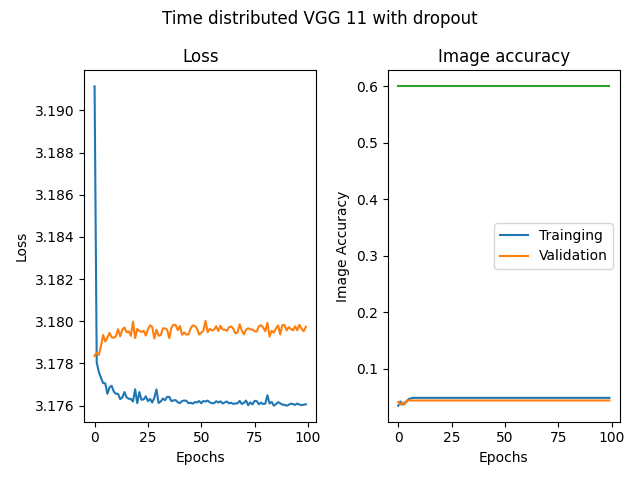
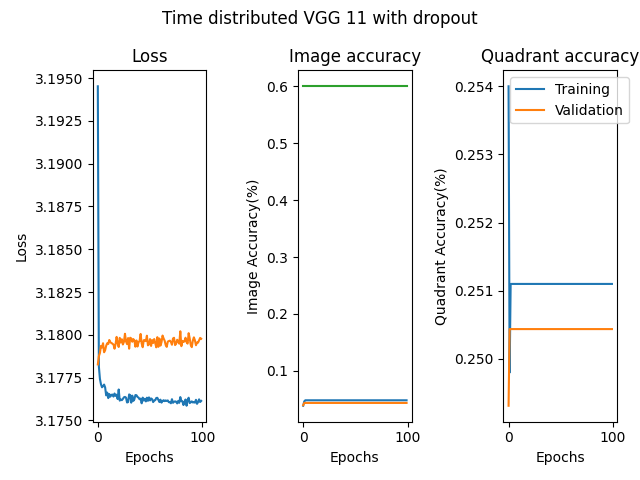
Fixed non-time distributed model

diff --git a/Exam/Task3/task3.py b/Exam/Task3/task3.py
@@ -26,20 +26,15 @@ def create_model(input_shape=(96,96,3),dropout=False,batch_norm = True, l2=False
     Creates a model after the vgg11 network.
 
     """ 
-
     model = keras.Sequential()
-    convlayers = [64,"pool",128,"pool",256,"batchnorm",256,"pool",512,"batchnorm",512,"pool",512,512,"pool"]
-    if batch_norm:
-        convlayers.append("batchnorm")
+    convlayers = [64,"pool",128,"pool",256,256,"pool",512,512,"pool",512,512,"pool"]
     dense_layers = [4096,4096]
 
-    model.add(layers.Input(shape=input_shape))
+    model.add(layers.InputLayer(input_shape=input_shape))
     #Convolutional layers
     for i,filters in enumerate(convlayers):
         if filters == "pool":
             model.add(layers.MaxPool2D(padding="same", name=f"Pooling_layer_{i}"))
-        elif filters == "batchnorm":
-            model.add(layers.BatchNormalization())
         else:
             model.add(layers.Conv2D(filters=filters,
                                     kernel_size=(3,3), 
@@ -48,6 +43,9 @@ def create_model(input_shape=(96,96,3),dropout=False,batch_norm = True, l2=False
                                     activation="relu",
                                     # input_shape = None if i > 0 else input_shape,
                                     name=f"Conv_layer_{i}"))
+            if batch_norm:
+                model.add(layers.BatchNormalization())
+
     model.add(layers.Flatten())
     for i,nodes in enumerate(dense_layers):
         if dropout:
@@ -60,6 +58,7 @@ def create_model(input_shape=(96,96,3),dropout=False,batch_norm = True, l2=False
             if hasattr(layer, "kernel_regularizer"):
                 layer.kernel_regularizer = regularizers.L2()
     return model
+   
 
 def create_time_distributed_model(input_shape=(4,48,48,3),dropout=False,batch_norm = True, l2=False):
     """
